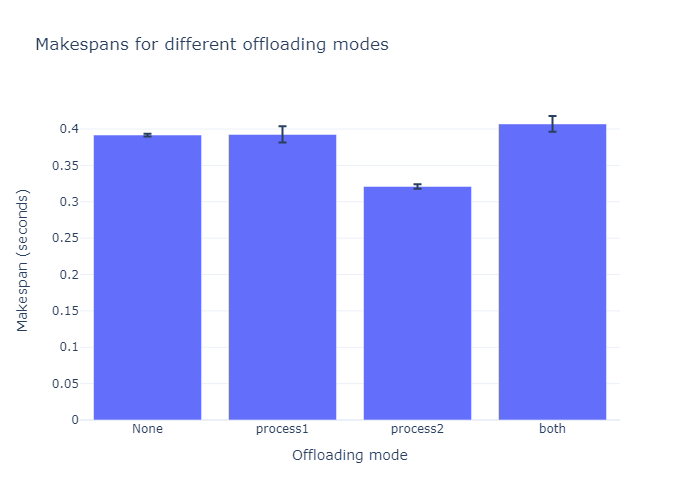
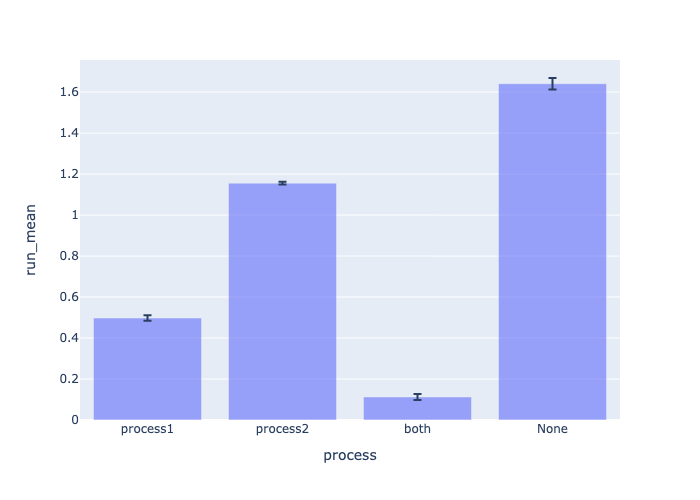
committed everything

diff --git a/main.py b/main.py
@@ -13,6 +13,15 @@ def generate_data() -> List[int]:
 
 def process1(data: List[int]) -> List[int]:
     """TODO: Document this function. What does it do? What are the inputs and outputs?"""
+
+    """ Function which checks all the values in data and does some computation regarding next largest prime numbers 
+    
+    Args:
+        data: Which is a list of integer data points
+
+    Returns:
+        A list of all the next largest prime numbers larger than the values from the data list ie. the next largest prime number
+    """
     def foo(x):
         """Find the next largest prime number."""
         while True:
@@ -23,6 +32,14 @@ def process1(data: List[int]) -> List[int]:
 
 def process2(data: List[int]) -> List[int]:
     """TODO: Document this function. What does it do? What are the inputs and outputs?"""
+    """ Function which checks all the values in data and does some computation to find the next perfect square
+
+    Args:
+        data: List of integer data points
+
+    Returns:
+        A list of all the next largest perfect squares larger than the values from the data list ie. the next largest perfect square
+    """
     def foo(x):
         """Find the next largest prime number."""
         while True:
@@ -33,9 +50,19 @@ def process2(data: List[int]) -> List[int]:
 
 def final_process(data1: List[int], data2: List[int]) -> List[int]:
     """TODO: Document this function. What does it do? What are the inputs and outputs?"""
+    """ Function which computes the mean for each index in two differing lists
+
+    Args:
+        data1: List of integer data points with size n
+        data2: List of integer data points with size n
+        SIZES MUST BE EQUIVALENT
+
+    Returns:
+        Mean of the each of the indexes in their own list.
+    """
     return np.mean([x - y for x, y in zip(data1, data2)])
 
-offload_url = 'http://192.168.4.74:5000' # TODO: Change this to the IP address of your server
+offload_url = 'http://172.20.10.3:5000' # TODO: Change this to the IP address of your server
 
 def run(offload: Optional[str] = None) -> float:
     """Run the program, offloading the specified function(s) to the server.
@@ -55,22 +82,53 @@ def run(offload: Optional[str] = None) -> float:
         def offload_process1(data):
             nonlocal data1
             # TODO: Send a POST request to the server with the input data
+            response = request.post(f'{offload_url/process1}',json = data)
             data1 = response.json()
         thread = threading.Thread(target=offload_process1, args=(data,))
         thread.start()
         data2 = process2(data)
         thread.join()
         # Question 2: Why do we need to join the thread here?
-        # Question 3: Are the processing functions executing in parallel or just concurrently? What is the difference?
+        # Question 3: :Are the processing functions executing in parallel or just concurrently? What is the difference?
         #   See this article: https://oxylabs.io/blog/concurrency-vs-parallelism
         #   ChatGPT is also good at explaining the difference between parallel and concurrent execution!
         #   Make sure to cite any sources you use to answer this question.
     elif offload == 'process2':
         # TODO: Implement this case
-        pass
+        data2 = None
+        def offload_process2(data):
+            nonlocal data2
+            # TODO: Send a POST request to the server with the input data
+            response = request.post(f'{offload_url/process2}',json = data)
+            data2 = response.json()
+        thread = threading.Thread(target=offload_process2, args=(data,))
+        thread.start()
+        data1 = process1(data)
+        thread.join()
+        
+        #pass
     elif offload == 'both':
         # TODO: Implement this case
-        pass
+        data1 = None
+        data2 = None
+        def offload_process1(data):
+            nonlocal data1
+            # TODO: Send a POST request to the server with the input data
+            response = request.post(f'{offload_url/process1}',json = data)
+            data1 = response.json()
+        def offload_process2(data):
+            nonlocal data2
+            # TODO: Send a POST request to the server with the input data
+            response = request.post(f'{offload_url/process2}',json = data)
+            data1 = response.json()
+        thread1 = threading.Thread(target=offload_process1, args=(data,))
+        thread2 = threading.Thread(target=offload_process2, args=(data,))
+        thread1.start()
+        thread2.start()
+        thread1.join()
+        thread2.join()
+
+        #pass
 
     ans = final_process(data1, data2)
     return ans 
@@ -79,14 +137,34 @@ def main():
     # TODO: Run the program 5 times for each offloading mode, and record the total execution time
     #   Compute the mean and standard deviation of the execution times
     #   Hint: store the results in a pandas DataFrame, use previous labs as a reference
+    processes = ['process1', 'process2', 'both', '']
+
+    data = []
+    for process in processes:
+
+        runs = []
+
+        for i in range(5):
+            start = time.time()
+            run(process)
+            start=start-time.time()
+            runs.append(start)
+        
+        runsMean = np.mean(np.array(runs))
+        runsSTD = np.std(np.array(runs))
+
+        data.append((processes, runsMean, runsSTD))
+    
+    df = pd.DataFrame(data, columns=['process', 'run_mean', 'run_std'])
+    print(df)
 
 
     # TODO: Plot makespans (total execution time) as a bar chart with error bars
     # Make sure to include a title and x and y labels
-
+    fig = px.bar(df,x="process",y="run_mean", error_y="run_std",opacity=0.6)
 
     # TODO: save plot to "makespan.png"
-
+    fig.savefig("makespan.png")
 
     # Question 4: What is the best offloading mode? Why do you think that is?
     # Question 5: What is the worst offloading mode? Why do you think that is?

diff --git a/server.py b/server.py
@@ -1,8 +1,9 @@
 from flask import Flask, request, jsonify
-
+import pandas as pd
+import plotly.express as px
 from main import process1, process2
-
-
+from typing import List
+import ast
 app = Flask(__name__)
 
 @app.route('/')
@@ -11,3 +12,27 @@ def index():
 
 # TODO: Create a flask app with two routes, one for each function.
 # The route should get the data from the request, call the function, and return the result.
+
+@app.route('/process1',methods=['POST'])
+def process1route():
+    x = request.get_data()
+    return jsonify(process1(x))
+
+@app.route('/process2',methods=['POST'])
+def process2route():
+    x = request.get_data()
+    return jsonify(process2(x))
+
+@app.route('/done',methods=['POST'])
+def done():
+    def pro(data: List[int]) -> List[int]:
+        return data;
+    fig=request.json
+
+    print(fig) 
+    df = pd.DataFrame(fig,columns=['process','run_mean','run_std'])
+    fig = px.bar(df,x="process", y= "run_mean", error_y="run_std", opacity=0.6)
+    fig.write_image( "makespan.png" )
+    return fig
+if __name__ == "__main__":
+    app.run(host="0.0.0.0")

diff --git a/README.md b/README.md
@@ -7,8 +7,26 @@
 
 ## Lab Question Answers
 
-Question 1: ...
+Question 1: 
 
-Answer: ...
+Answer: I feel as though it would be ideal to offload tasks onto my PC if the task is too intensive for my raspberry pi. In general, the tasks given to us in this lab are not very intensive, so in theory we can just do it all on the rapsberry pi, but ultimately sending to my computer will be faster, but if my computer is far away and the size of the input data cannot be sent in one post request, offloading the data might not be worth it and it might take longer to actually send the data than computing it.
 
-Question 2: ...
+Question 2: 
+
+Answer: We have 1 thread running on server and 1 running on main. We must use thread join to join these two processes running on differing threads so that the final_process call can be called.
+
+Question 3: 
+
+Answer: These processes are running concurrently as parallel refers to the same system being able to execute multiple tasks at the same time, while concurrently is asynchronous meaning when handling multiple tasks which means that threading is concurrent.
+
+Question 4: 
+
+Answer: Based on the graph, it is very likely that when you do outsource both processes to your local machine, it is significantly faster than doing any or all processes on the pi.
+
+Question 5: 
+
+Answer: It is obvious that it is NONE
+
+Question 6: 
+
+Answer: I have worked on projects where the computation is so intensive such as during machine learning calculations or AI training which requires offloading to a server which is made to handle large and huge processes like this.
